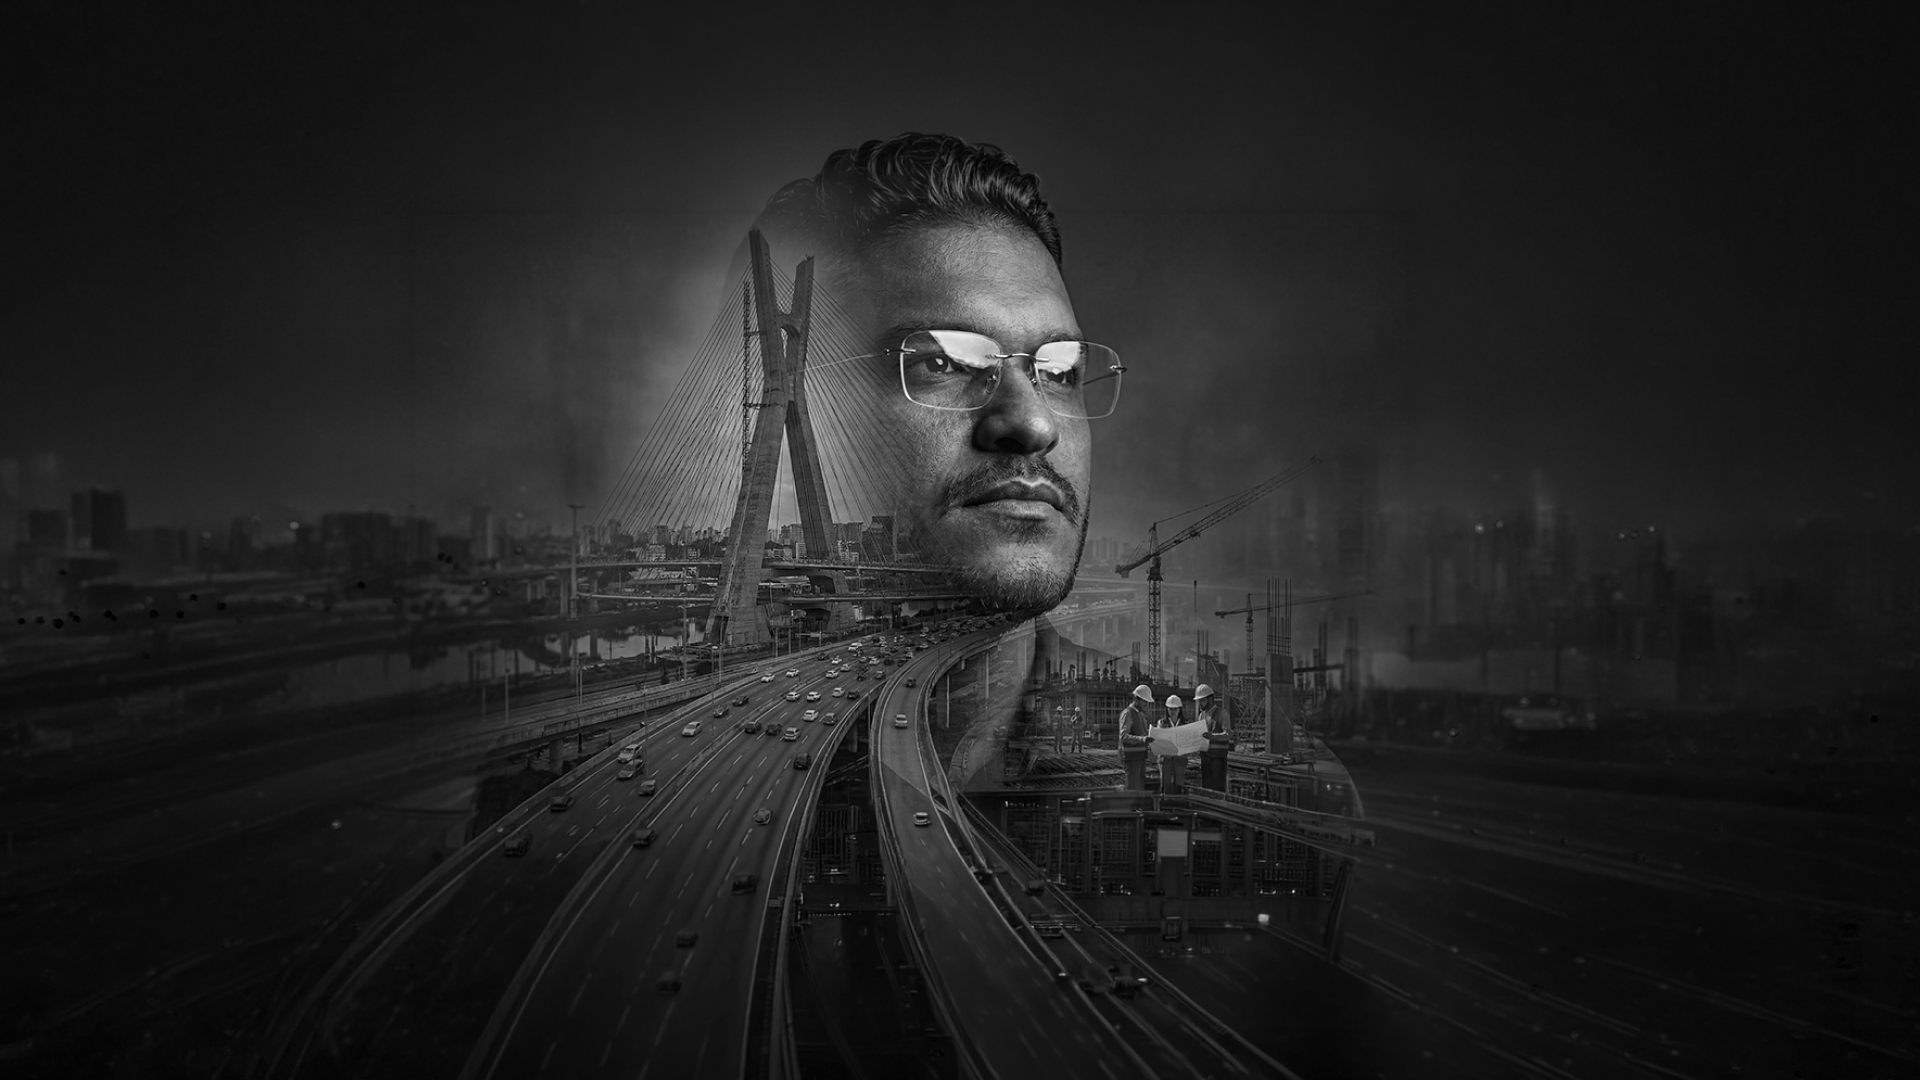
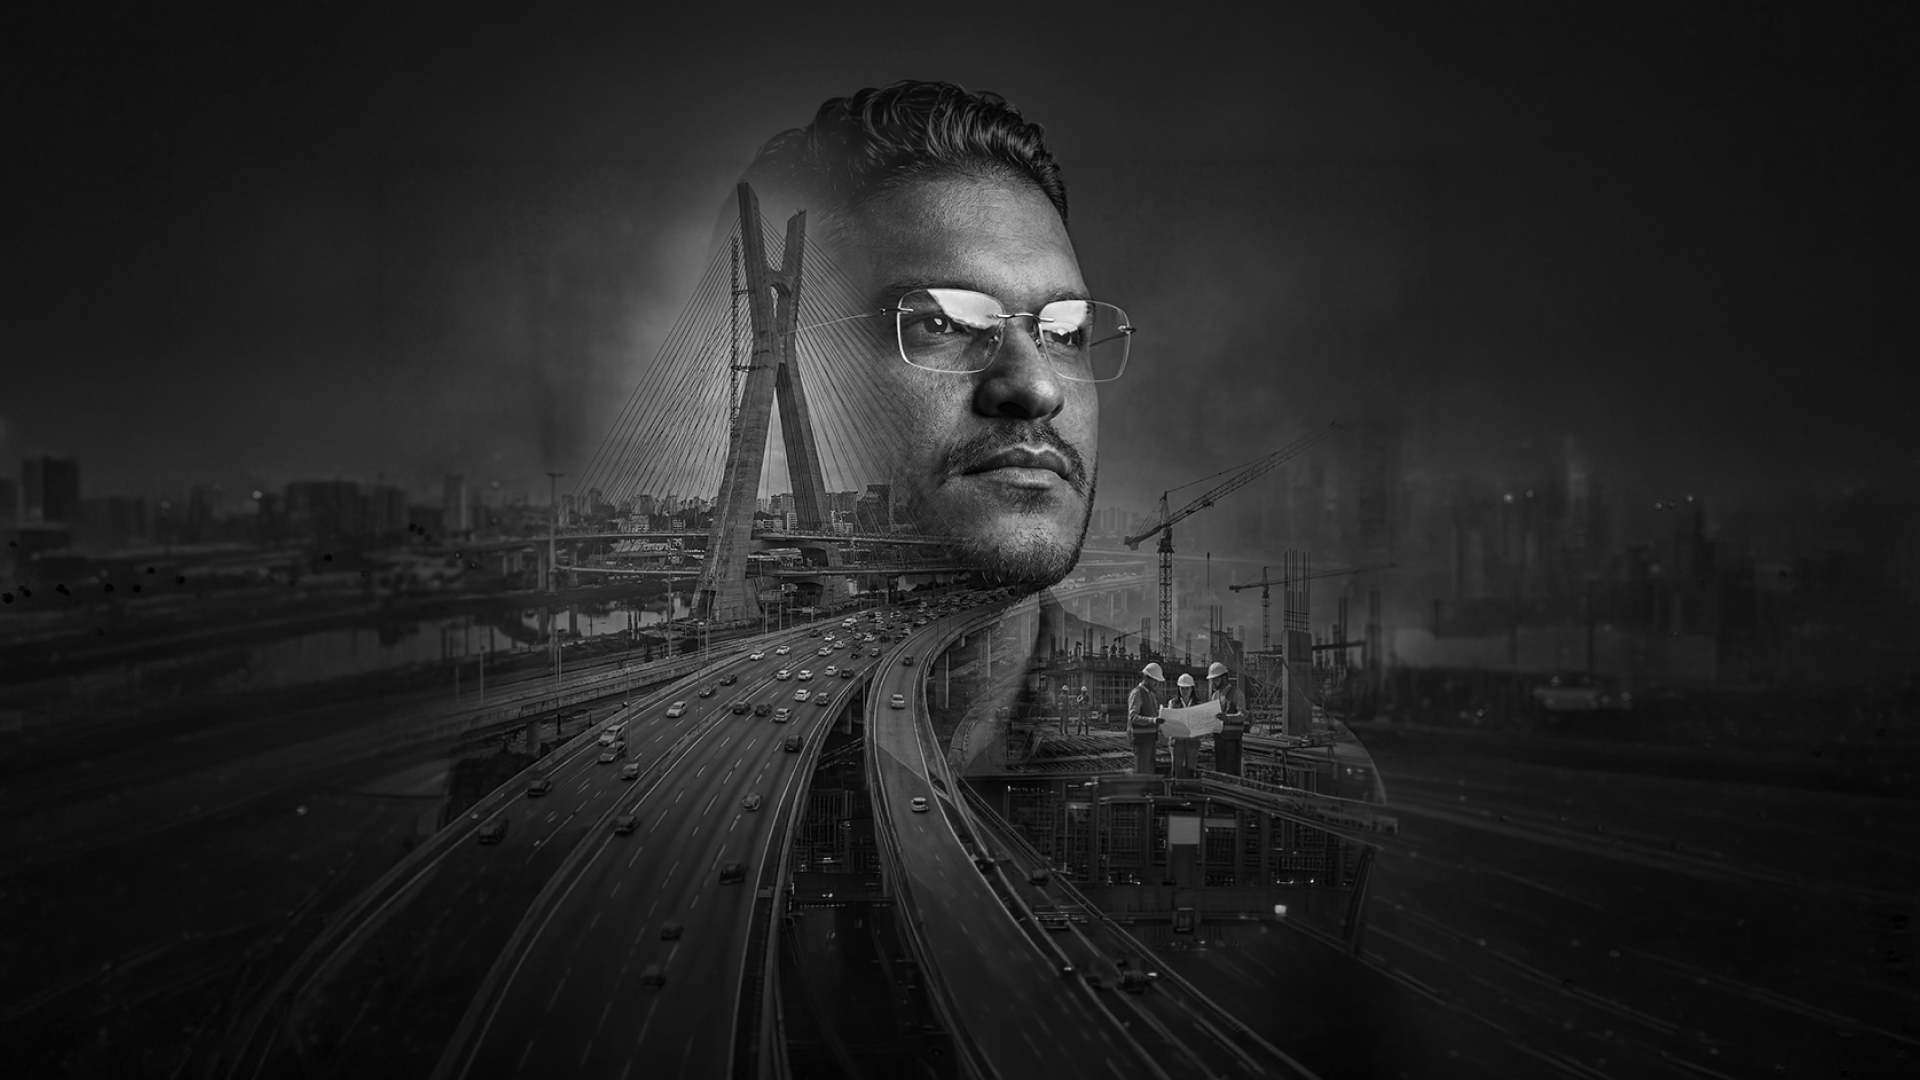
Dobra origem: imagem nova + texto na base, novo copy

diff --git a/index.html b/index.html
@@ -255,12 +255,12 @@ ul{margin:0;padding:0;list-style:none}
 .lp-feature__panel .lp-pull{margin-top:36px;padding-top:32px}
 
 /* ===== ORIGEM (centralizado + foto do fundador no fundo) ===== */
-.lp-origem{position:relative;overflow:hidden;display:flex;align-items:center;min-height:78vh}
-.lp-origem__bg{position:absolute;inset:0;z-index:0;background:var(--neutral-950) center/cover no-repeat}
+.lp-origem{position:relative;overflow:hidden;display:flex;align-items:flex-end;min-height:88vh}
+.lp-origem__bg{position:absolute;inset:0;z-index:0;background:var(--neutral-950) center 25%/cover no-repeat}
 .lp-origem__bg::after{content:"";position:absolute;inset:0;
-  background:linear-gradient(180deg,rgba(10,10,10,.5) 0%,rgba(10,10,10,.62) 55%,rgba(10,10,10,.8) 100%)}
-.lp-origem__split{position:relative;z-index:2;display:grid;gap:28px;width:100%}
-@media(min-width:1024px){.lp-origem__split{grid-template-columns:.85fr 1.15fr;gap:64px;align-items:start}}
+  background:linear-gradient(180deg,rgba(10,10,10,.32) 0%,rgba(10,10,10,.4) 45%,rgba(10,10,10,.86) 100%)}
+.lp-origem__split{position:relative;z-index:2;display:grid;gap:24px;width:100%}
+@media(min-width:1024px){.lp-origem__split{grid-template-columns:.85fr 1.15fr;gap:64px;align-items:end}}
 .lp-origem__title{display:flex;flex-direction:column;gap:22px}
 .lp-origem__title .lp-h2{margin:0;max-width:16ch}
 .lp-origem__body .lp-narrative{margin:0}
@@ -603,9 +603,8 @@ ul{margin:0;padding:0;list-style:none}
     </div>
     <div class="lp-origem__body reveal" data-anim="right" data-delay="1">
       <div class="lp-narrative">
-        <p>Durante mais de 13 anos, nosso fundador viveu a rotina de uma empresa de obra pesada. Não como consultor, não como auditor, não fazendo visitas pontuais, ele estava <span class="hl">do lado de dentro da operação.</span></p>
-        <p>Primeiro organizando processos. Depois assumindo cada vez mais responsabilidades, até se tornar, na prática, o braço direito do dono. Viu novos contratos chegarem, novas equipes serem formadas, novas máquinas entrarem. Mas também viveu o outro lado: a desorganização, a perda de visibilidade, a crise e a difícil reconstrução.</p>
-        <p class="lead-strong">O problema de uma construtora raramente está nas pessoas. Está na forma como a empresa enxerga, ou deixa de enxergar, a própria operação.</p>
+        <p>Por mais de 13 anos, nosso fundador viveu por dentro a rotina de uma empresa de obra pesada, não como consultor ou auditor, mas como <span class="hl">parte da operação.</span> Começou organizando processos e foi assumindo cada vez mais responsabilidades, até se tornar o braço direito do dono. Acompanhou o crescimento: novos contratos, equipes, máquinas. Mas também viveu o outro lado: desorganização, perda de visibilidade, crise e reconstrução.</p>
+        <p class="lead-strong">O problema de uma construtora raramente está nas pessoas. Está na forma como ela enxerga, ou deixa de enxergar, a própria operação.</p>
       </div>
     </div>
   </div>